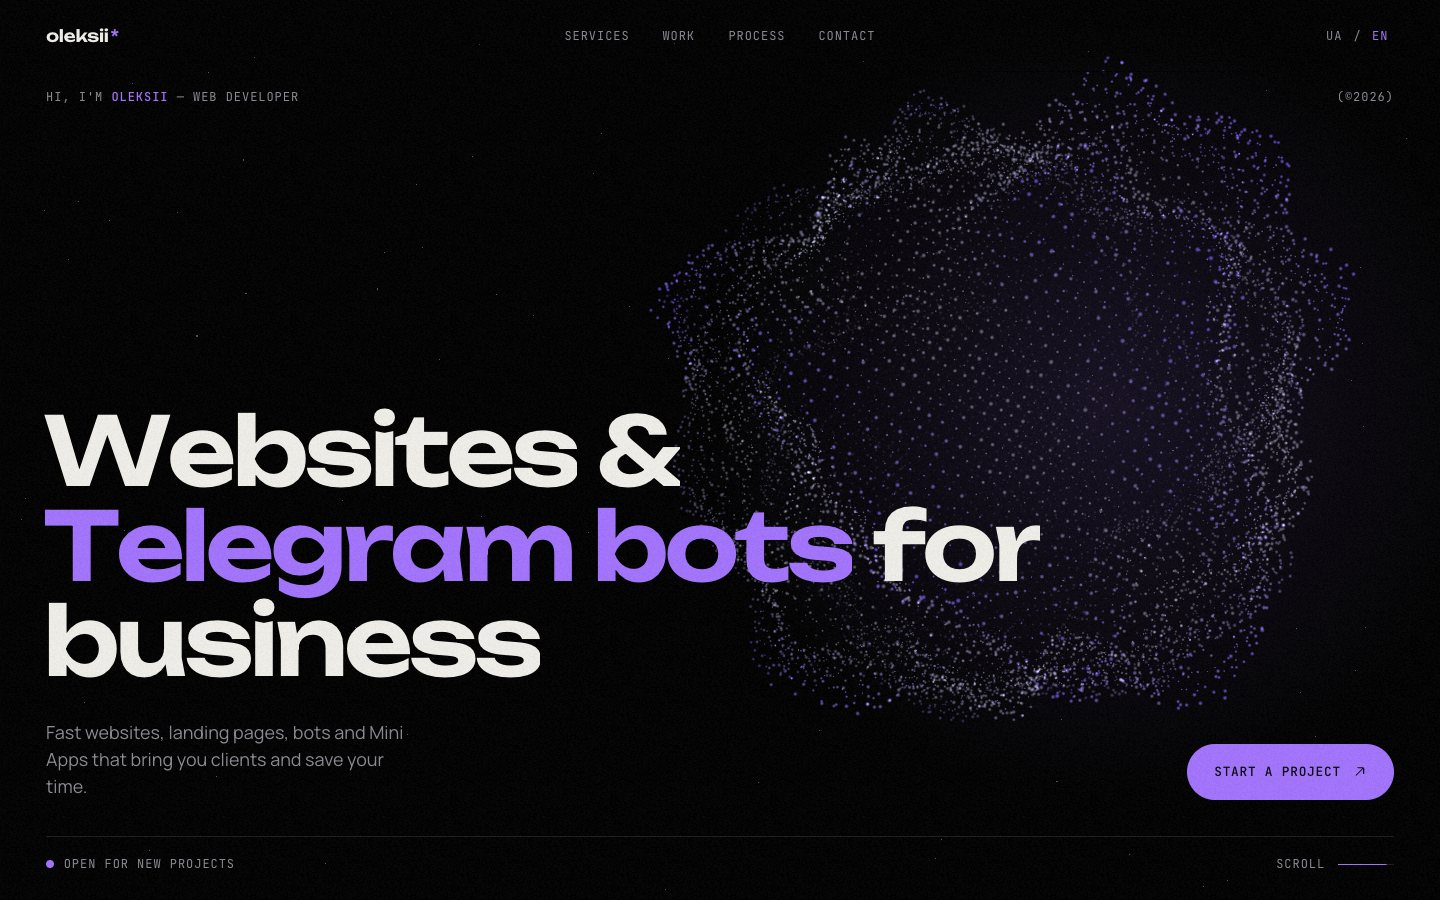
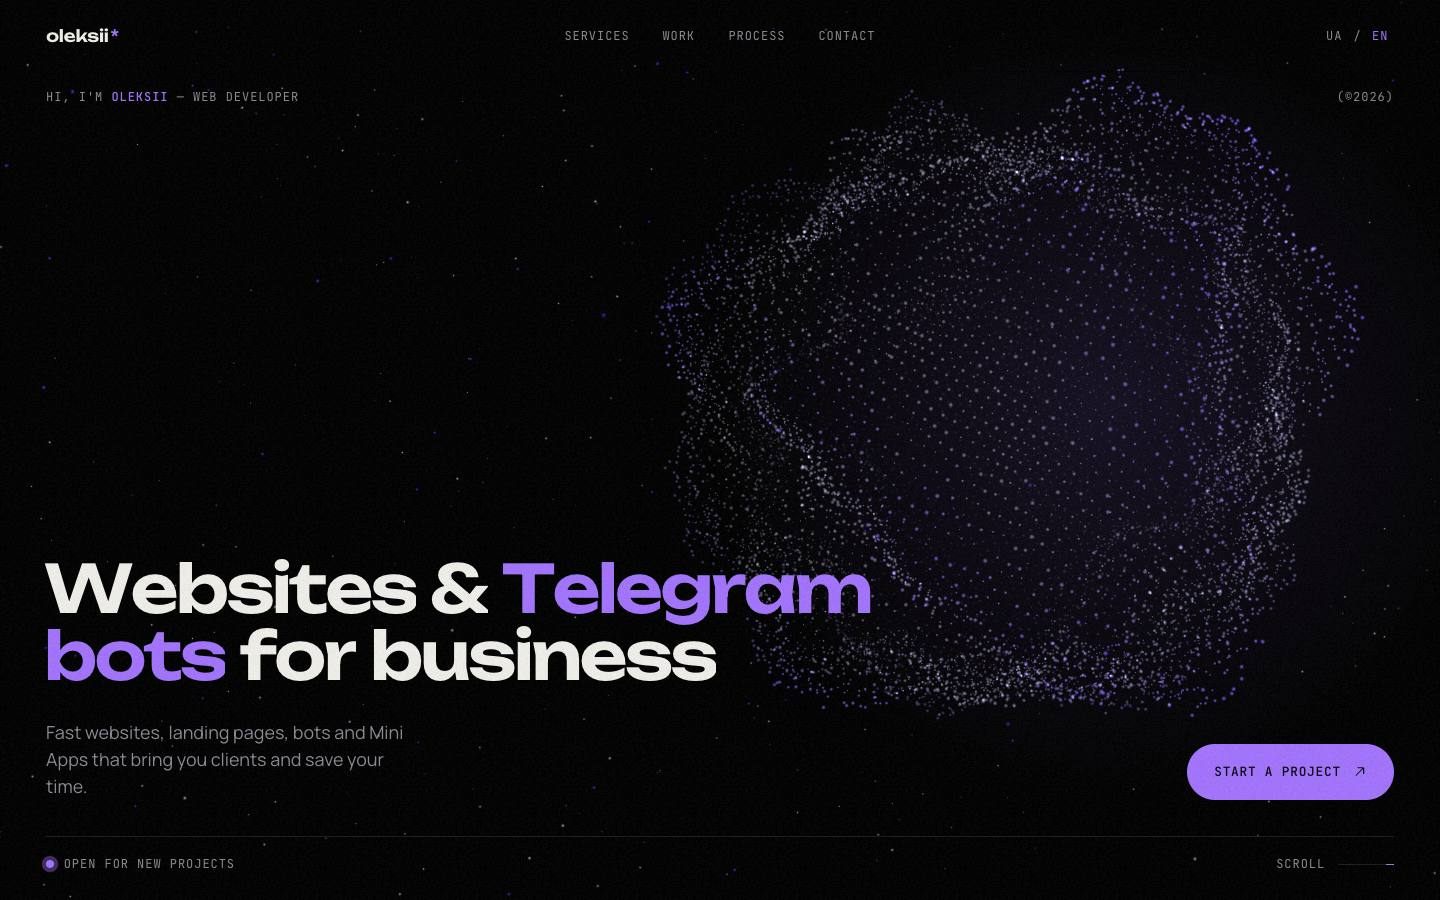
Lighthouse fixes: accessible split text, WCAG contrast, responsive images, async fonts; refresh README

Changed region(s): [[0.0312, 0.0622, 0.9375, 0.8089], [0.75, 0.3733, 0.7812, 0.4044]]

diff --git a/index.html b/index.html
@@ -49,9 +49,11 @@
   <!-- Шрифти (усі підтримують кирилицю) -->
   <link rel="preconnect" href="https://fonts.googleapis.com">
   <link rel="preconnect" href="https://fonts.gstatic.com" crossorigin>
-  <link rel="stylesheet" href="https://fonts.googleapis.com/css2?family=Unbounded:wght@400;600;900&family=Manrope:wght@400;500;700&family=JetBrains+Mono:wght@400;500&display=swap">
+  <link rel="preload" as="style" href="https://fonts.googleapis.com/css2?family=Unbounded:wght@400;600;900&family=Manrope:wght@400;500;700&family=JetBrains+Mono:wght@400;500&display=swap">
+  <link rel="stylesheet" href="https://fonts.googleapis.com/css2?family=Unbounded:wght@400;600;900&family=Manrope:wght@400;500;700&family=JetBrains+Mono:wght@400;500&display=swap" media="print" onload="this.media='all'">
+  <noscript><link rel="stylesheet" href="https://fonts.googleapis.com/css2?family=Unbounded:wght@400;600;900&family=Manrope:wght@400;500;700&family=JetBrains+Mono:wght@400;500&display=swap"></noscript>
 
-  <link rel="stylesheet" href="style.css?v=49">
+  <link rel="stylesheet" href="style.css?v=50">
 
   <!-- Three.js як ES-модуль (фіксована версія) -->
   <script type="importmap">
@@ -63,7 +65,7 @@
   <script defer src="https://cdnjs.cloudflare.com/ajax/libs/gsap/3.12.5/gsap.min.js"></script>
   <script defer src="https://cdnjs.cloudflare.com/ajax/libs/gsap/3.12.5/ScrollTrigger.min.js"></script>
   <script defer src="https://unpkg.com/lenis@1.1.13/dist/lenis.min.js"></script>
-  <script type="module" src="main.js?v=49"></script>
+  <script type="module" src="main.js?v=50"></script>
 </head>
 <body>
   <a class="skip-link" href="#main" data-i18n="skip">Перейти до змісту</a>

diff --git a/main.js b/main.js
@@ -242,8 +242,13 @@ function splitText(el, text) {
     if (closes) accent = false;
   });
 
-  el.setAttribute('aria-label', words.map((w) => w.word + w.tail).join(' '));
+  // текст для скрінрідерів — прихованим span (aria-label на <p>/<h*> заборонений)
+  el.removeAttribute('aria-label');
   el.textContent = '';
+  const sr = document.createElement('span');
+  sr.className = 'sr-only';
+  sr.textContent = words.map((w) => w.word + w.tail).join(' ');
+  el.appendChild(sr);
   words.forEach(({ word, tail, accent: isAccent }, i) => {
     const w = document.createElement('span');
     w.className = isAccent ? 'word is-accent' : 'word';
@@ -767,7 +772,7 @@ function renderProjects() {
       <div class="project-media">
         <div class="project-media-inner">
           ${p.image
-            ? `<img src="${esc(p.image)}" alt="" loading="lazy" decoding="async" data-ph="${i}">`
+            ? `<img src="${esc(p.image)}" srcset="${esc(p.image.replace('.webp', '-1000.webp'))} 1000w, ${esc(p.image)} 1600w" sizes="(max-width: 900px) min(84vw, 26rem), clamp(18rem, 31vw, 32rem)" width="1600" height="1000" alt="" loading="lazy" decoding="async" data-ph="${i}">`
             : placeholderSVG(p, i)}
         </div>
       </div>

diff --git a/style.css b/style.css
@@ -865,8 +865,9 @@ html:not([lang="en"]) [data-l="en"] { display: none; }
 }
 /* Ще «не досягнуті» кроки — приглушені. Тільки з класом .fx (анімації реально працюють):
    без GSAP / з «без анімацій» кроки повністю видимі */
-.fx .process-step:not(.is-active) .process-step-title { color: rgba(241, 240, 234, 0.22); }
-.fx .process-step:not(.is-active) .process-step-text { opacity: 0.35; }
+/* приглушення в межах контрасту WCAG 4.5:1 на чорному */
+.fx .process-step:not(.is-active) .process-step-title { color: rgba(241, 240, 234, 0.5); }
+.fx .process-step:not(.is-active) .process-step-text { opacity: 0.85; }
 /* Активний крок «загоряється»; без анімацій — усі кроки одразу активні */
 .process-step.is-active .process-dot,
 html:not(.fx) .process-dot {

diff --git a/README.md b/README.md
@@ -4,24 +4,37 @@ Personal portfolio of Oleksii, a web developer building websites, landing pages,
 
 **Live:** https://blessedrbls.github.io/portfolio/
 
-![Portfolio hero section](images/readme-hero.jpg)
+![Hero section with the particle sphere](images/readme-hero.jpg)
 
 ## Features
 
-- **3D hero** — an interactive particle sphere (Three.js + custom GLSL shaders) that reacts to the cursor and explodes into particles as you scroll
-- **Scroll storytelling** — pinned hero with a letter-by-letter exit, a statement whose words light up on scroll, a process timeline whose line draws itself (SVG `stroke-dashoffset` + GSAP ScrollTrigger)
-- **Services** — cards with a mouse-follow 3D tilt and a cursor-tracking neon border
-- **Work** — native swipe/drag carousel (touch, trackpad, mouse drag, arrows, keyboard); project data lives in one `PROJECTS` array in `main.js`
-- **Contact** — a big animated call to action and magnetic buttons
-- Preloader, custom cursor, smooth scrolling (Lenis), film-grain overlay
-- **Two languages** — Ukrainian (default) and English, with a smooth switch
-- **Accessible** — respects `prefers-reduced-motion` (everything is visible without animations), keyboard-friendly, skip link
-- **Fast on any device** — adaptive 3D quality: phones and software-rendered GPUs get a lighter animated mode
-- Open Graph image, favicons and meta tags
+- **Sphere guide.** One particle sphere (Three.js + custom GLSL shaders) stays behind the whole page and changes its mood (size, position, motion and glow) smoothly from section to section. It reacts to the cursor and bursts into particles as you leave the hero.
+- **Starfield journey.** A WebGL starfield moves with the page, and the stars streak into light trails the faster you scroll, while the sphere lags behind and catches up.
+- **Live demos.** Project cards open the real site or Mini App inside a phone or browser frame, so visitors can try it without leaving the page. Esc closes it and focus returns to the card.
+- **Reactive work section.** A native swipe/drag carousel (touch, trackpad, mouse drag, arrows, keyboard). Hovering a project tints the sphere with that project's colour.
+- **Scroll storytelling.** Pinned hero with a letter-by-letter exit, a statement whose words light up as you scroll, and a process timeline whose line draws itself.
+- **Services.** Cards with a 3D tilt and a neon border that follows the cursor.
+- **Easter egg.** Type `hello` (or click the logo five times).
+- Preloader, custom cursor, magnetic buttons, smooth scrolling (Lenis), film grain.
+- **Two languages.** Ukrainian (default) and English, with a smooth switch.
+
+![Work section with project cards](images/readme-work.jpg)
+
+![Process timeline](images/readme-process.jpg)
+
+## Performance and accessibility
+
+- **Adaptive quality.** The 3D scene measures frame time and lowers resolution and particle count when needed. Software-rendered GPUs (e.g. Microsoft Basic Render Driver) get a light mode that stops drawing when the page is idle. On normal GPUs the idle scene drops to 30 fps, and it pauses while a demo is open.
+- **FPS meter.** Add `?fps` to the URL to see frame rate, quality level and the detected GPU.
+- **Lighthouse (desktop):** Accessibility 100, Best Practices 100, SEO 100.
+- Respects `prefers-reduced-motion`: everything is visible and readable without animations, and the page still works if the animation libraries fail to load.
+- Keyboard-friendly, with a skip link, screen-reader text for animated headings and WCAG-contrast text.
+- Responsive images (`srcset`), lazy loading, non-blocking web fonts.
+- Open Graph image, favicons and meta tags.
 
 ## Tech
 
-Plain static site — `index.html`, `style.css`, `main.js`. No build step.
+Plain static site: `index.html`, `style.css`, `main.js`. No build step.
 Libraries are loaded from CDNs with pinned versions: Three.js 0.160.0, GSAP 3.12.5 + ScrollTrigger, Lenis 1.1.13.
 
 ## Run locally
@@ -36,4 +49,4 @@ Then open http://localhost:8000.
 
 ## Editing projects
 
-Projects are defined in the `PROJECTS` array at the top of `main.js` (title and description in Ukrainian and English, tags, image, demo and code links). Cover images live in `images/` (1600×1000 `.webp`).
+Projects are defined in the `PROJECTS` array at the top of `main.js`: title and description in Ukrainian and English, tags, image, tint colour, demo and code links, and an optional `preview` (`phone` or `desktop`) for the live demo frame. Cover images live in `images/` as 1600×1000 `.webp`, with a 1000 px wide `-1000.webp` copy for phones.
